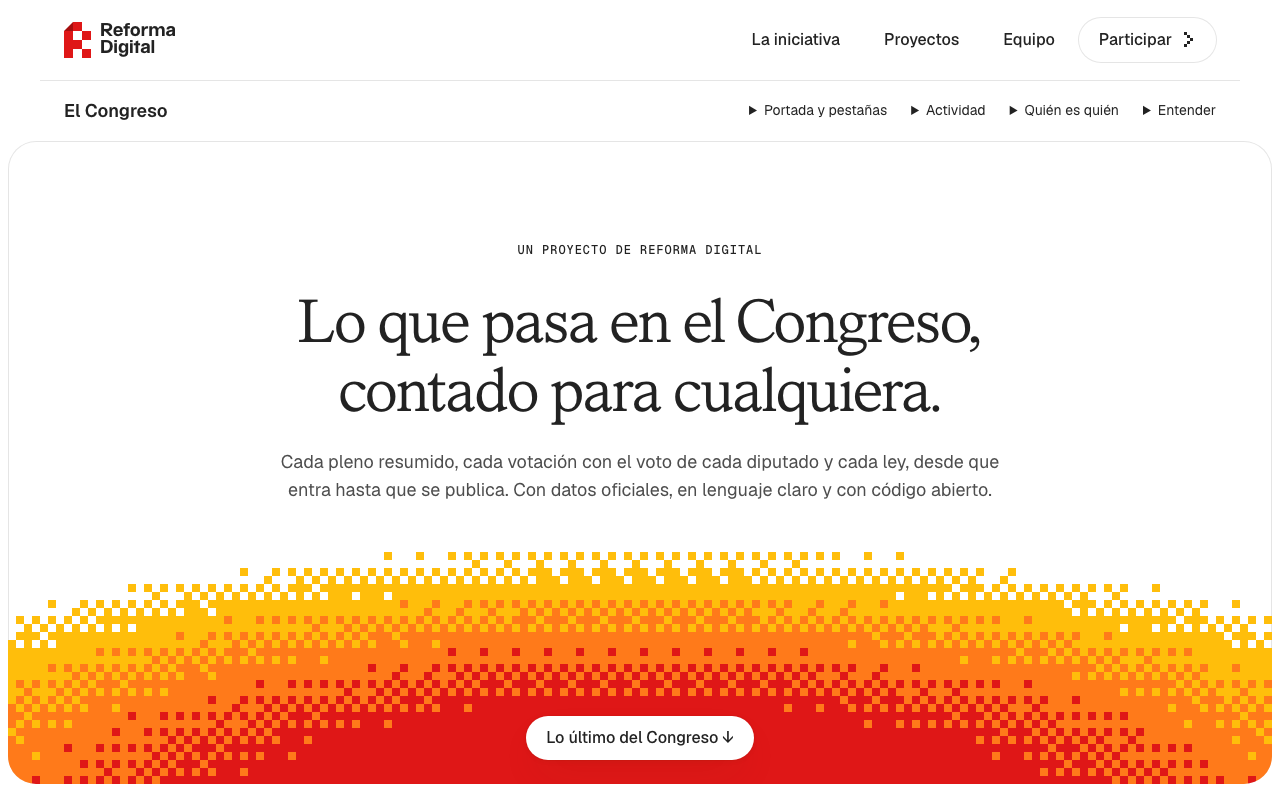
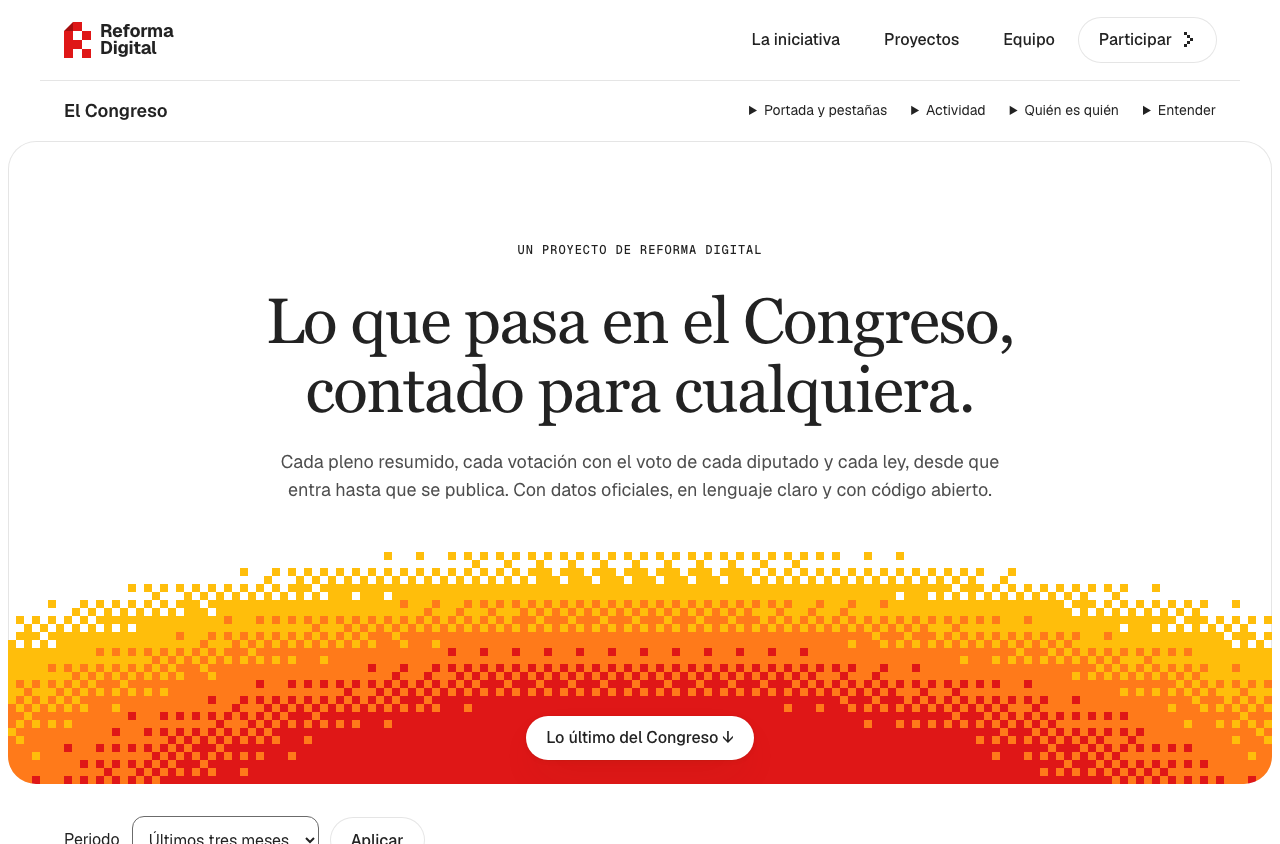
feat(congreso): publica la UI de Pablo en las rutas definitivas
Conserva la portada y las cabeceras de la PR #127, mueve las vistas a /congreso y elimina el índice temporal. Conecta la navegación pública y el sitemap con los datos existentes; corrige el icono del mapa y las claves de leyes sin modificar el diseño.

diff --git a/apps/web/app/(search)/congreso/[[...path]]/page.tsx b/apps/web/app/(search)/congreso/[[...path]]/page.tsx
@@ -2,8 +2,9 @@ import type { Metadata } from 'next';
 import Link from 'next/link';
 import { notFound } from 'next/navigation';
 import { z } from 'zod';
-import { getIndex, getPeriod, getQuiz } from '../../../../../lib/congreso/data';
-import { congressBase, congressRoute } from '../../../../../lib/congreso/routes';
+import { getIndex, getPeriod, getQuiz } from '../../../../lib/congreso/data';
+import { congressBase, congressRoute } from '../../../../lib/congreso/routes';
+import { pageMetadata } from '../../../../lib/seo';
 import {
   Intro,
   Section,
@@ -15,12 +16,12 @@ import {
   Source,
   date,
   href,
-} from '../../../../../components/congreso/common';
-import { Activity } from '../../../../../components/congreso/activity';
-import { People } from '../../../../../components/congreso/people';
-import { Explore } from '../../../../../components/congreso/explore';
-import { Geography, Elections } from '../../../../../components/congreso/elections';
-import { Quiz } from '../../../../../components/congreso/quiz';
+} from '../../../../components/congreso/common';
+import { Activity } from '../../../../components/congreso/activity';
+import { People } from '../../../../components/congreso/people';
+import { Explore } from '../../../../components/congreso/explore';
+import { Geography, Elections } from '../../../../components/congreso/elections';
+import { Quiz } from '../../../../components/congreso/quiz';
 
 type Props = {
   params: Promise<{ path?: string[] }>;
@@ -28,11 +29,16 @@ type Props = {
 };
 export const dynamic = 'force-dynamic';
 export async function generateMetadata({ params }: Props): Promise<Metadata> {
-  const route = congressRoute((await params).path);
-  return {
-    title: `${route?.title || 'El Congreso'} · Reforma Digital`,
-    robots: { index: false, follow: false },
-  };
+  const { path = [] } = await params;
+  const route = congressRoute(path);
+  if (!route) notFound();
+  return pageMetadata({
+    title: `${route.title} · El Congreso · Reforma Digital`,
+    description:
+      'Qué se dijo, cómo se votó y quién te representa. Actividad parlamentaria con datos oficiales, fuentes y análisis identificados como IA.',
+    path: href(path.map(encodeURIComponent).join('/')),
+    og: 'portada',
+  });
 }
 const querySchema = z.object({
   q: z.string().max(200).default(''),

diff --git a/apps/web/app/(search)/page.tsx b/apps/web/app/(search)/page.tsx
@@ -8,6 +8,7 @@ import { Footer } from '../../components/sol/footer';
 import { ProjectScene } from '../../components/sol/project-scene';
 import { ProjectTour } from '../../components/sol/project-tour';
 import { links } from '../../lib/site';
+import { congressBase } from '../../lib/congreso/routes';
 import {
   absolute,
   organization,
@@ -204,19 +205,17 @@ export default function HomePage() {
               },
               {
                 title: 'Participar empieza por entender.',
-                label: (
-                  <div className="in-acciones">
-                    <span className="in-proyecto-tipo">04 · Elecciones</span>
-                    <span className="in-proximo" lang="en">
-                      Coming soon
-                    </span>
-                  </div>
-                ),
+                label: <span className="in-proyecto-tipo">04 · El Congreso</span>,
                 text: (
-                  <p className="t-texto-l">
-                    Elegir también requiere información clara. Estamos preparando nuevos proyectos
-                    para acercar las elecciones a las personas. Pronto te contaremos más.
-                  </p>
+                  <>
+                    <p className="t-texto-l">
+                      Consulta qué se debate, cómo se vota y quién te representa. Actividad del
+                      Congreso y datos electorales con enlaces a las fuentes oficiales.
+                    </p>
+                    <Link className="boton" href={congressBase}>
+                      Abrir El Congreso <Icon name="derecha" size={16} />
+                    </Link>
+                  </>
                 ),
                 scene: (
                   <div className="rc-pieza in-elecciones" aria-hidden="true">

diff --git a/tests/congreso.test.ts b/tests/congreso.test.ts
@@ -2,8 +2,27 @@ import { describe, expect, it } from 'vitest';
 import { pollsHidden } from '../apps/web/lib/congreso/polls';
 import { congressRoute } from '../apps/web/lib/congreso/routes';
 import { monthSchema } from '../apps/web/lib/congreso/schema';
+import { generateMetadata } from '../apps/web/app/(search)/congreso/[[...path]]/page';
+import sitemap from '../apps/web/app/sitemap';
 
 describe('datos del Congreso', () => {
+  it('publica las vistas con canonical propio y las incluye en el sitemap', async () => {
+    for (const path of [[], ['diputados'], ['votacion', 'demo']]) {
+      const metadata = await generateMetadata({
+        params: Promise.resolve({ path }),
+        searchParams: Promise.resolve({ q: 'consulta', pagina: '2' }),
+      });
+      expect(metadata.alternates?.canonical).toBe(
+        `/congreso${path.length ? `/${path.join('/')}` : ''}`,
+      );
+      expect(metadata.robots).toBeUndefined();
+    }
+    const paths = sitemap().map(({ url }) => new URL(url).pathname);
+    expect(paths).toContain('/congreso');
+    expect(paths).toContain('/congreso/diputados');
+    expect(paths).toContain('/congreso/preguntas');
+    expect(paths.some((path) => path.startsWith('/new-'))).toBe(false);
+  });
   it('aplica la ventana de encuestas con la hora de Madrid y libera al llegar al final', () => {
     const embargo = ['2026-11-24', '2026-11-29T20:00'];
     expect(pollsHidden(embargo, new Date('2026-11-23T22:59:00Z'))).toBe(false);

diff --git a/apps/web/components/sol/iniciativa.css b/apps/web/components/sol/iniciativa.css
@@ -133,26 +133,13 @@
   flex-wrap: wrap;
   gap: var(--e-8) var(--e-24);
 }
-.in-proximo {
-  padding: var(--e-8) var(--e-12);
-  border-radius: var(--r-pildora);
-  background: var(--ambar-claro);
-  color: var(--ambar-texto);
-  font-size: 14px;
-  font-weight: 500;
-  line-height: 1.4;
-}
-/* Móvil: etiqueta, título, texto, acción y escena comparten el borde izquierdo; la de «Coming
-   soon» queda pegada a la etiqueta. */
+/* Móvil: etiqueta, título, texto, acción y escena comparten el borde izquierdo. */
 @media (max-width: 959px) {
   .in-proyectos .rc-paso-texto {
     gap: var(--e-12);
   }
   .in-proyectos .rc-paso-texto > p + * {
     margin-top: var(--e-8);
-  }
-  .in-proyectos .rc-paso-texto > .in-acciones:first-child {
-    column-gap: var(--e-12);
   }
 }
 .in-elecciones {

diff --git a/apps/web/app/sitemap.ts b/apps/web/app/sitemap.ts
@@ -1,8 +1,18 @@
 import type { MetadataRoute } from 'next';
 import { siteUrl } from '../lib/site';
+import { congressBase, congressSections } from '../lib/congreso/routes';
 
 // Solo páginas indexables: /chat y /admin llevan noindex.
-const pages = ['/', '/equipo', '/sources', '/how-it-works', '/privacy'];
+const pages = [
+  '/',
+  '/equipo',
+  '/sources',
+  '/how-it-works',
+  '/privacy',
+  ...congressSections.flatMap(({ pages }) =>
+    pages.map(([, path]) => `${congressBase}${path ? `/${path}` : ''}`),
+  ),
+];
 
 export default function sitemap(): MetadataRoute.Sitemap {
   return pages.map((path) => ({ url: new URL(path, siteUrl).href }));

diff --git a/apps/web/components/congreso/activity.tsx b/apps/web/components/congreso/activity.tsx
@@ -187,8 +187,8 @@ export async function Activity({
         <Pagination page={page} total={laws.length} params={{ q: query }} />
         <Section title="Leyes publicadas">
           <div className="cg-grid">
-            {data.aprobadas.map((law) => (
-              <article className="cg-card" key={law.pdf}>
+            {data.aprobadas.map((law, i) => (
+              <article className="cg-card" key={`${law.pdf}-${i}`}>
                 <h3>{law.titulo}</h3>
                 <p>{date(law.fecha)}</p>
                 <Source url={law.pdf}>Publicación oficial</Source>

diff --git a/apps/web/components/sol/footer.tsx b/apps/web/components/sol/footer.tsx
@@ -1,6 +1,7 @@
 import Link from 'next/link';
 import { Button } from '@reforma-digital/design/sol';
 import { links } from '../../lib/site';
+import { congressBase } from '../../lib/congreso/routes';
 import { Icon } from './icon';
 import { Logo } from './logo';
 import './footer.css';
@@ -8,6 +9,7 @@ import './footer.css';
 const secciones = [
   ['La iniciativa', '/#iniciativa'],
   ['Buscador', '/chat'],
+  ['El Congreso', congressBase],
   ['Equipo', '/equipo'],
   ['Cómo funciona', '/how-it-works'],
   ['Fuentes oficiales', '/sources'],

diff --git a/apps/web/components/congreso/shell.tsx b/apps/web/components/congreso/shell.tsx
@@ -19,7 +19,7 @@ export function CongressShell({ children }: { children: ReactNode }) {
             <ul>
               {section.pages.map(([title, path]) => (
                 <li key={path}>
-                  <Link href={`${congressBase}/${path}`}>{title}</Link>
+                  <Link href={`${congressBase}${path ? `/${path}` : ''}`}>{title}</Link>
                 </li>
               ))}
             </ul>

diff --git a/apps/web/components/congreso/common.tsx b/apps/web/components/congreso/common.tsx
@@ -15,7 +15,7 @@ export const date = (value: string) =>
     timeZone: 'UTC',
   }).format(new Date(`${value}T12:00:00Z`));
 export const href = (path: string, month?: string) =>
-  `${congressBase}/${path}${month ? `?periodo=${month}` : ''}`;
+  `${congressBase}${path ? `/${path}` : ''}${month ? `?periodo=${month}` : ''}`;
 
 export function Intro({
   label = 'El Congreso',

diff --git a/apps/web/app/(search)/congreso/layout.tsx b/apps/web/app/(search)/congreso/layout.tsx
@@ -1,5 +1,5 @@
 import type { ReactNode } from 'react';
-import { CongressShell } from '../../../../components/congreso/shell';
+import { CongressShell } from '../../../components/congreso/shell';
 
 export default function Layout({ children }: { children: ReactNode }) {
   return <CongressShell>{children}</CongressShell>;

diff --git a/apps/web/lib/congreso/routes.ts b/apps/web/lib/congreso/routes.ts
@@ -1,4 +1,4 @@
-export const congressBase = '/new-escanoabierto/web';
+export const congressBase = '/congreso';
 export const congressSections = [
   {
     title: 'Portada y pestañas',

diff --git a/apps/web/components/congreso/congreso.css b/apps/web/components/congreso/congreso.css
@@ -547,7 +547,7 @@
   gap: var(--e-48);
   margin: var(--e-32) 0;
 }
-.cg-geo-hero svg {
+.cg-geo-hero > svg {
   width: 100%;
   max-height: 420px;
 }
